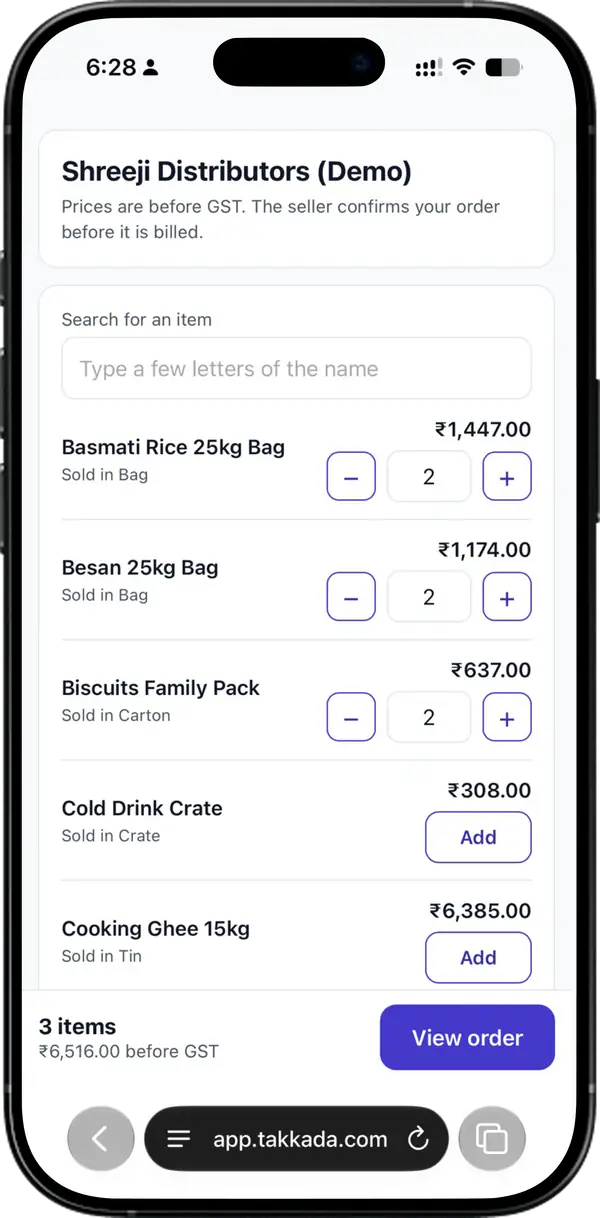
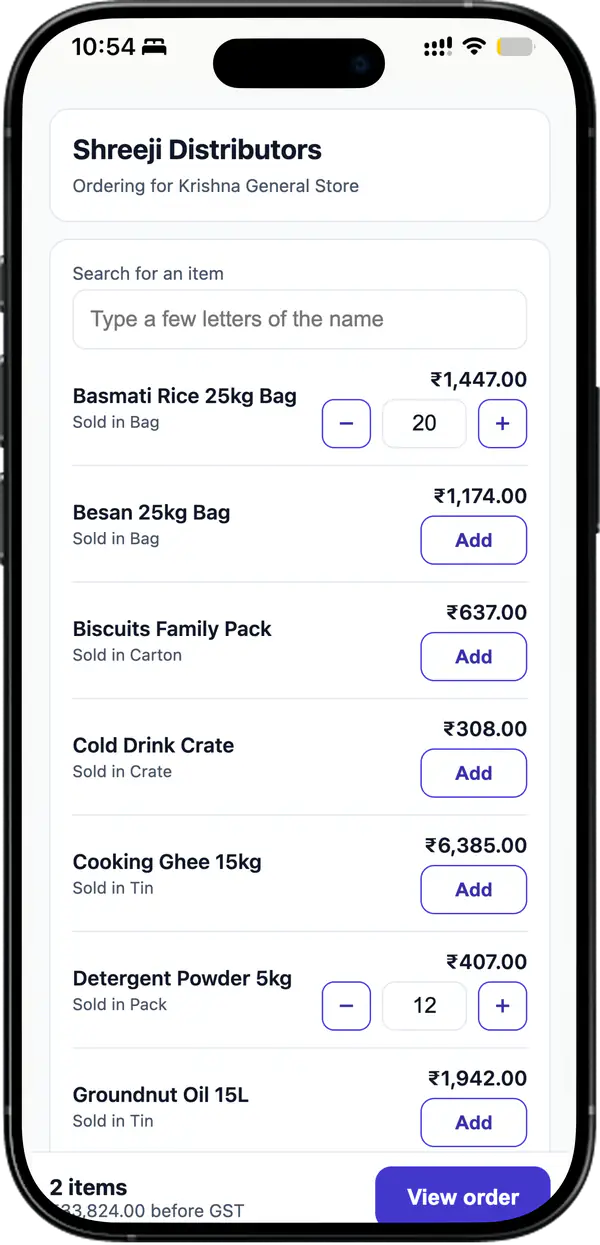
feat(features): swap in the operator mockups for the whole buyer flow
All five buyer screens are now operator-supplied artwork from the same
design set as the other 26 feature pages. The stage captures they replace
did their job as evidence and are gone from the page.

The walkthrough grows from four steps to five, because there is now real
artwork for the confirm screen and it was carrying two beats in one card.
Sending the order and getting a reference back are separate things: the
first is about how little he has to type, the second is about the thread
going back to WhatsApp where he was headed anyway.

Two copy corrections the new images forced. Step 1 picks up the search and
the selling-unit quantity, which its screen actually shows. Step 2 stopped
describing a running total, because its image is the review screen and the
running total is the hero's job now.

The merchant inbox step is still stamped placeholder artwork.

diff --git a/src/data/featurePagesSecondBatch.js b/src/data/featurePagesSecondBatch.js
@@ -2264,17 +2264,16 @@ export const SECOND_BATCH = [
         'Customer ordering link for distributors on Tally: the retailer opens a WhatsApp link, browses the priced catalogue and places an order without installing an app or logging in. Prices are resolved from the merchant’s own books, per-buyer links carry that party’s rates, and the merchant approves each order into Tally as a sales order.',
     },
     footerLabel: 'Customer order link',
-    // The hero is this page's LCP element, so it is budgeted in
-    // scripts/checkImageBudgets.mjs and rendered eagerly. Operator-supplied
-    // mockup (2026-08-11), and it earns the slot over the stage capture below
-    // it for one reason: the browser address bar is in the frame. The whole
-    // claim of this page is that the retailer installs nothing, and a phone
-    // showing an ordinary browser proves that faster than the sentence does.
+    // Operator-supplied mockups throughout (2026-08-11), from the same design
+    // set as the other 26 feature pages. The hero is this page's LCP element,
+    // so it is budgeted in scripts/checkImageBudgets.mjs and rendered eagerly.
+    // It carries the state the others do not: quantities entered and a running
+    // total, which is the moment the page is actually about.
     hero: {
       image: '/assets/screenshots/order-link-buyer-mockup.webp',
-      alt: 'A distributor’s ordering link open in a phone browser, showing priced items, quantity steppers and a running order total before GST',
+      alt: 'A distributor’s ordering link open on a phone, showing priced items, quantity steppers and a running order total before GST',
       width: 600,
-      height: 1218,
+      height: 1245,
     },
     author: 'founder',
     datePublished: '2026-08-11',
@@ -2285,23 +2284,21 @@ export const SECOND_BATCH = [
         icon: 'Link2',
         title: 'You send him a link, once',
         body:
-          'He opens it and your catalogue is already there, at the rates you decided. Nothing to download, no account to make, no password for him to forget and ring you about.',
-        // The personal-link capture: the header reads "Ordering for <party>",
-        // which is the evidence behind the personal-link claim in the
-        // comparison table. The hero shows the public link, so this is the
-        // only place on the page that shows a link naming its buyer.
+          'He opens it and your catalogue is already there, at the rates you decided. He finds an item by typing a few letters and sets the quantity in the unit you actually sell in. Nothing to download, no account to make, no password for him to forget and ring you about.',
+        // Header reads "Ordering for <party>", which is the evidence behind
+        // the personal-link claim in the comparison table.
         image: '/assets/screenshots/order-link-catalog-mockup.webp',
-        alt: 'Ordering link opened for a named retailer, showing the item list with prices, quantity steppers and a running total',
+        alt: 'Ordering link opened for a named retailer, showing the item list with a price and an Add button against each item',
         width: 600,
         height: 1243,
       },
       {
         icon: 'ListChecks',
-        title: 'He puts in quantities and watches the total',
+        title: 'He checks the order and the total before it goes',
         body:
-          'Search by a few letters, set the quantity in the unit you actually sell in, and the running total sits at the bottom of the screen. Rates come from your books, so nothing is negotiated in his browser.',
+          'Every line carries its rate and its amount, and the total is marked before GST so the bill is no surprise later. He can drop a line and add another. Rates come from your books, so nothing is negotiated in his browser.',
         image: '/assets/screenshots/order-link-cart-mockup.webp',
-        alt: 'Order review screen listing each item, its rate and the total before GST',
+        alt: 'Order review screen listing each item with its rate, its amount and the total before GST',
         width: 600,
         height: 1243,
       },
@@ -2309,9 +2306,19 @@ export const SECOND_BATCH = [
         icon: 'Send',
         title: 'He sends it with his mobile number and nothing else',
         body:
-          'No login and no OTP. He types his mobile number, adds a line about delivery if he wants, and the order goes. He gets a reference number back, and on a personal link his shop name is already on the order.',
+          'No login and no OTP. He types his number, adds a line about delivery if he wants, and that is the whole form. On a personal link his shop name is already on the order, so he never types who he is.',
+        image: '/assets/screenshots/order-link-confirm-mockup.webp',
+        alt: 'Confirmation step asking only for a mobile number and an optional note to the seller',
+        width: 600,
+        height: 1243,
+      },
+      {
+        icon: 'MessageCircle',
+        title: 'He gets a reference, and the thread stays on WhatsApp',
+        body:
+          'The order comes back with its own number, so a later call about it has something to name. One tap tells you on WhatsApp, which is where he was going to message you anyway.',
         image: '/assets/screenshots/order-link-sent-mockup.webp',
-        alt: 'Order confirmation screen showing the order reference, the item lines and the total before GST',
+        alt: 'Order sent screen showing the order reference, the item lines, the total before GST and a button to tell the seller on WhatsApp',
         width: 600,
         height: 1243,
       },
